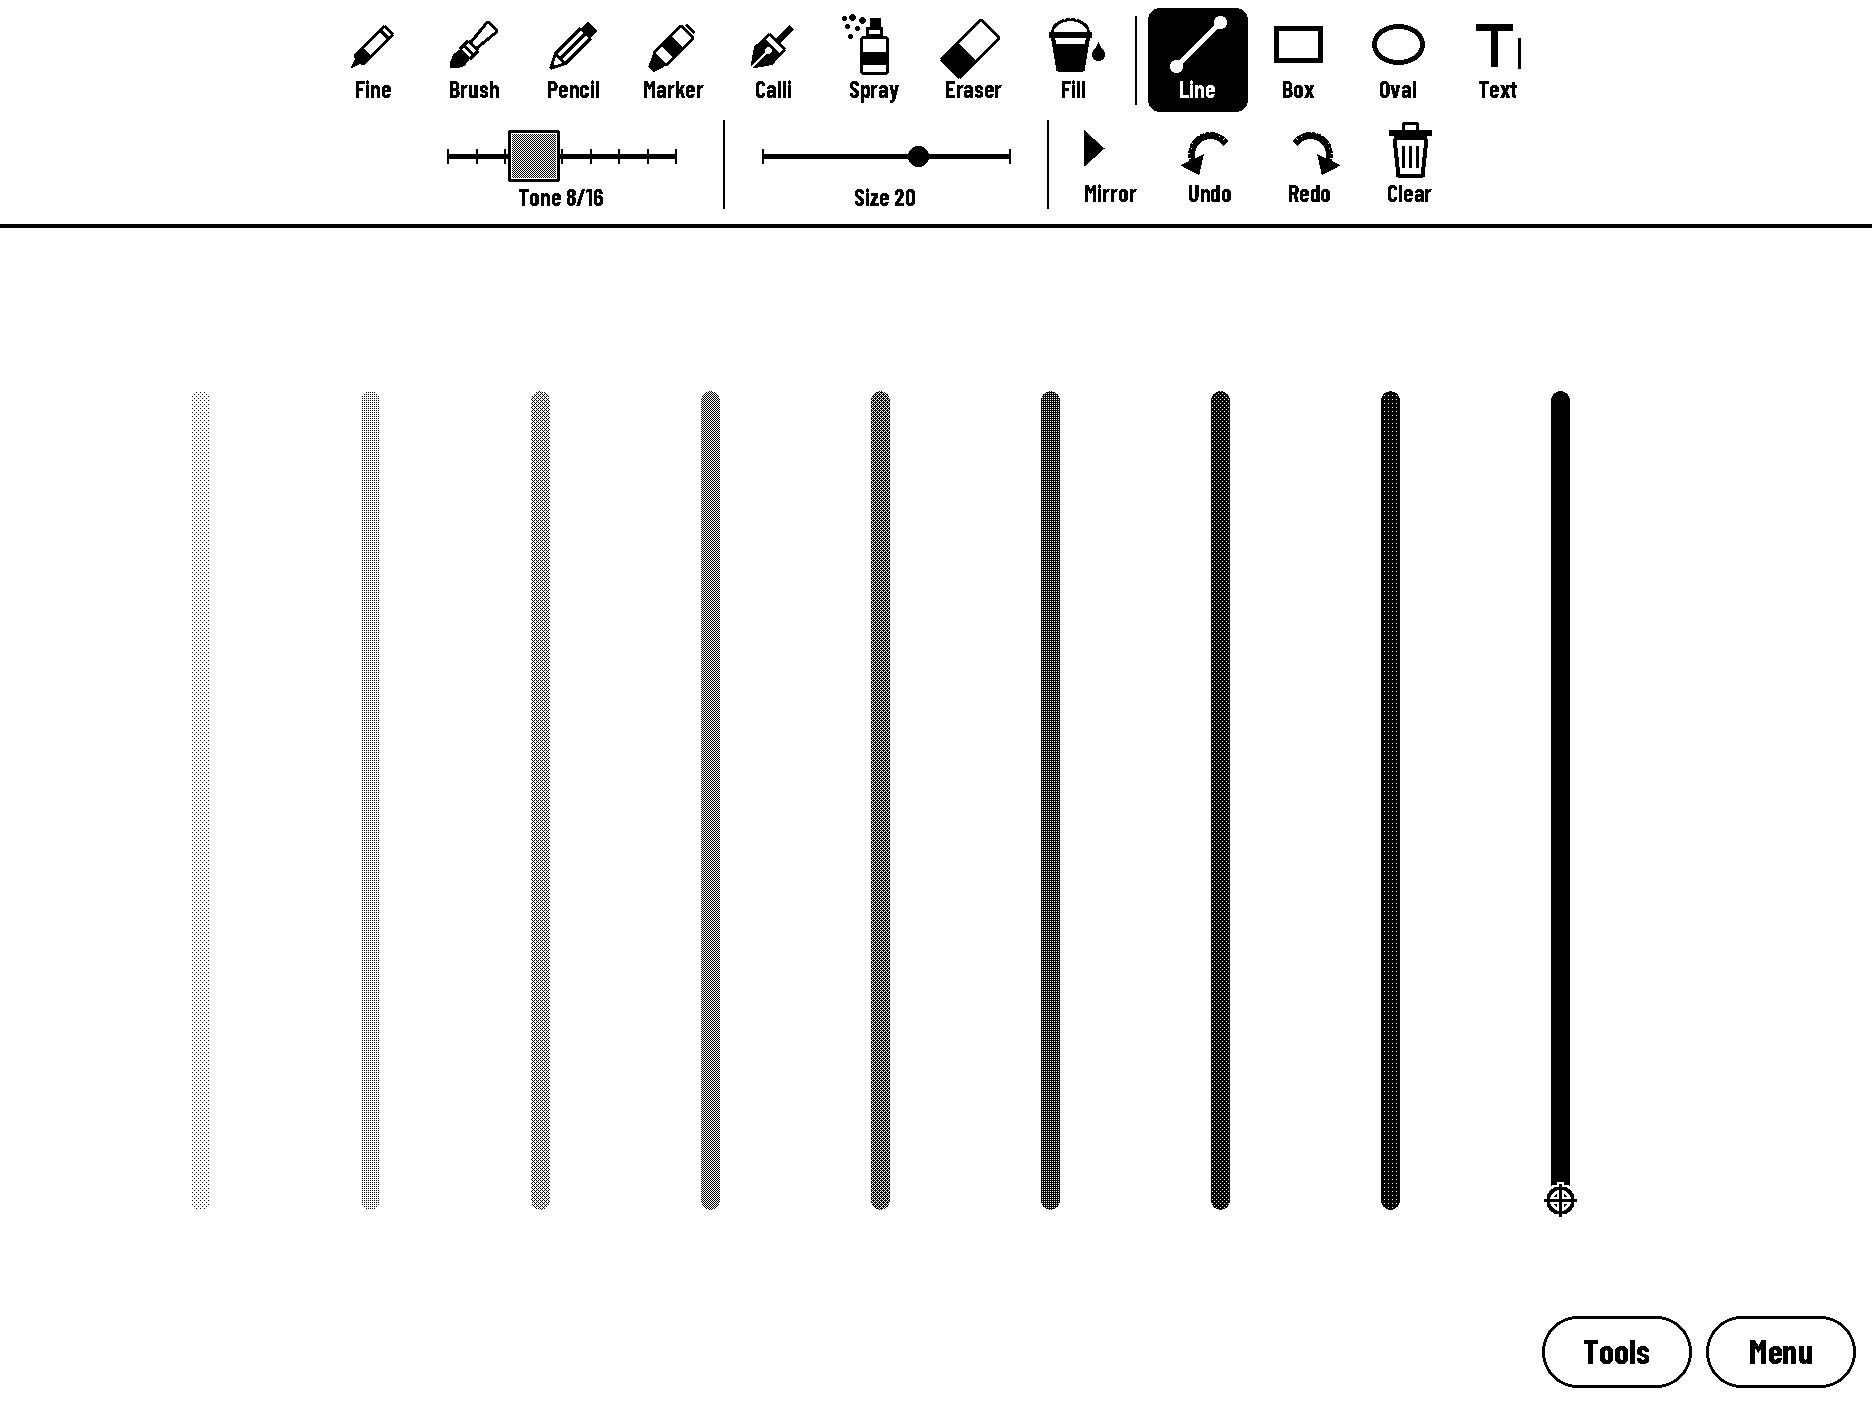
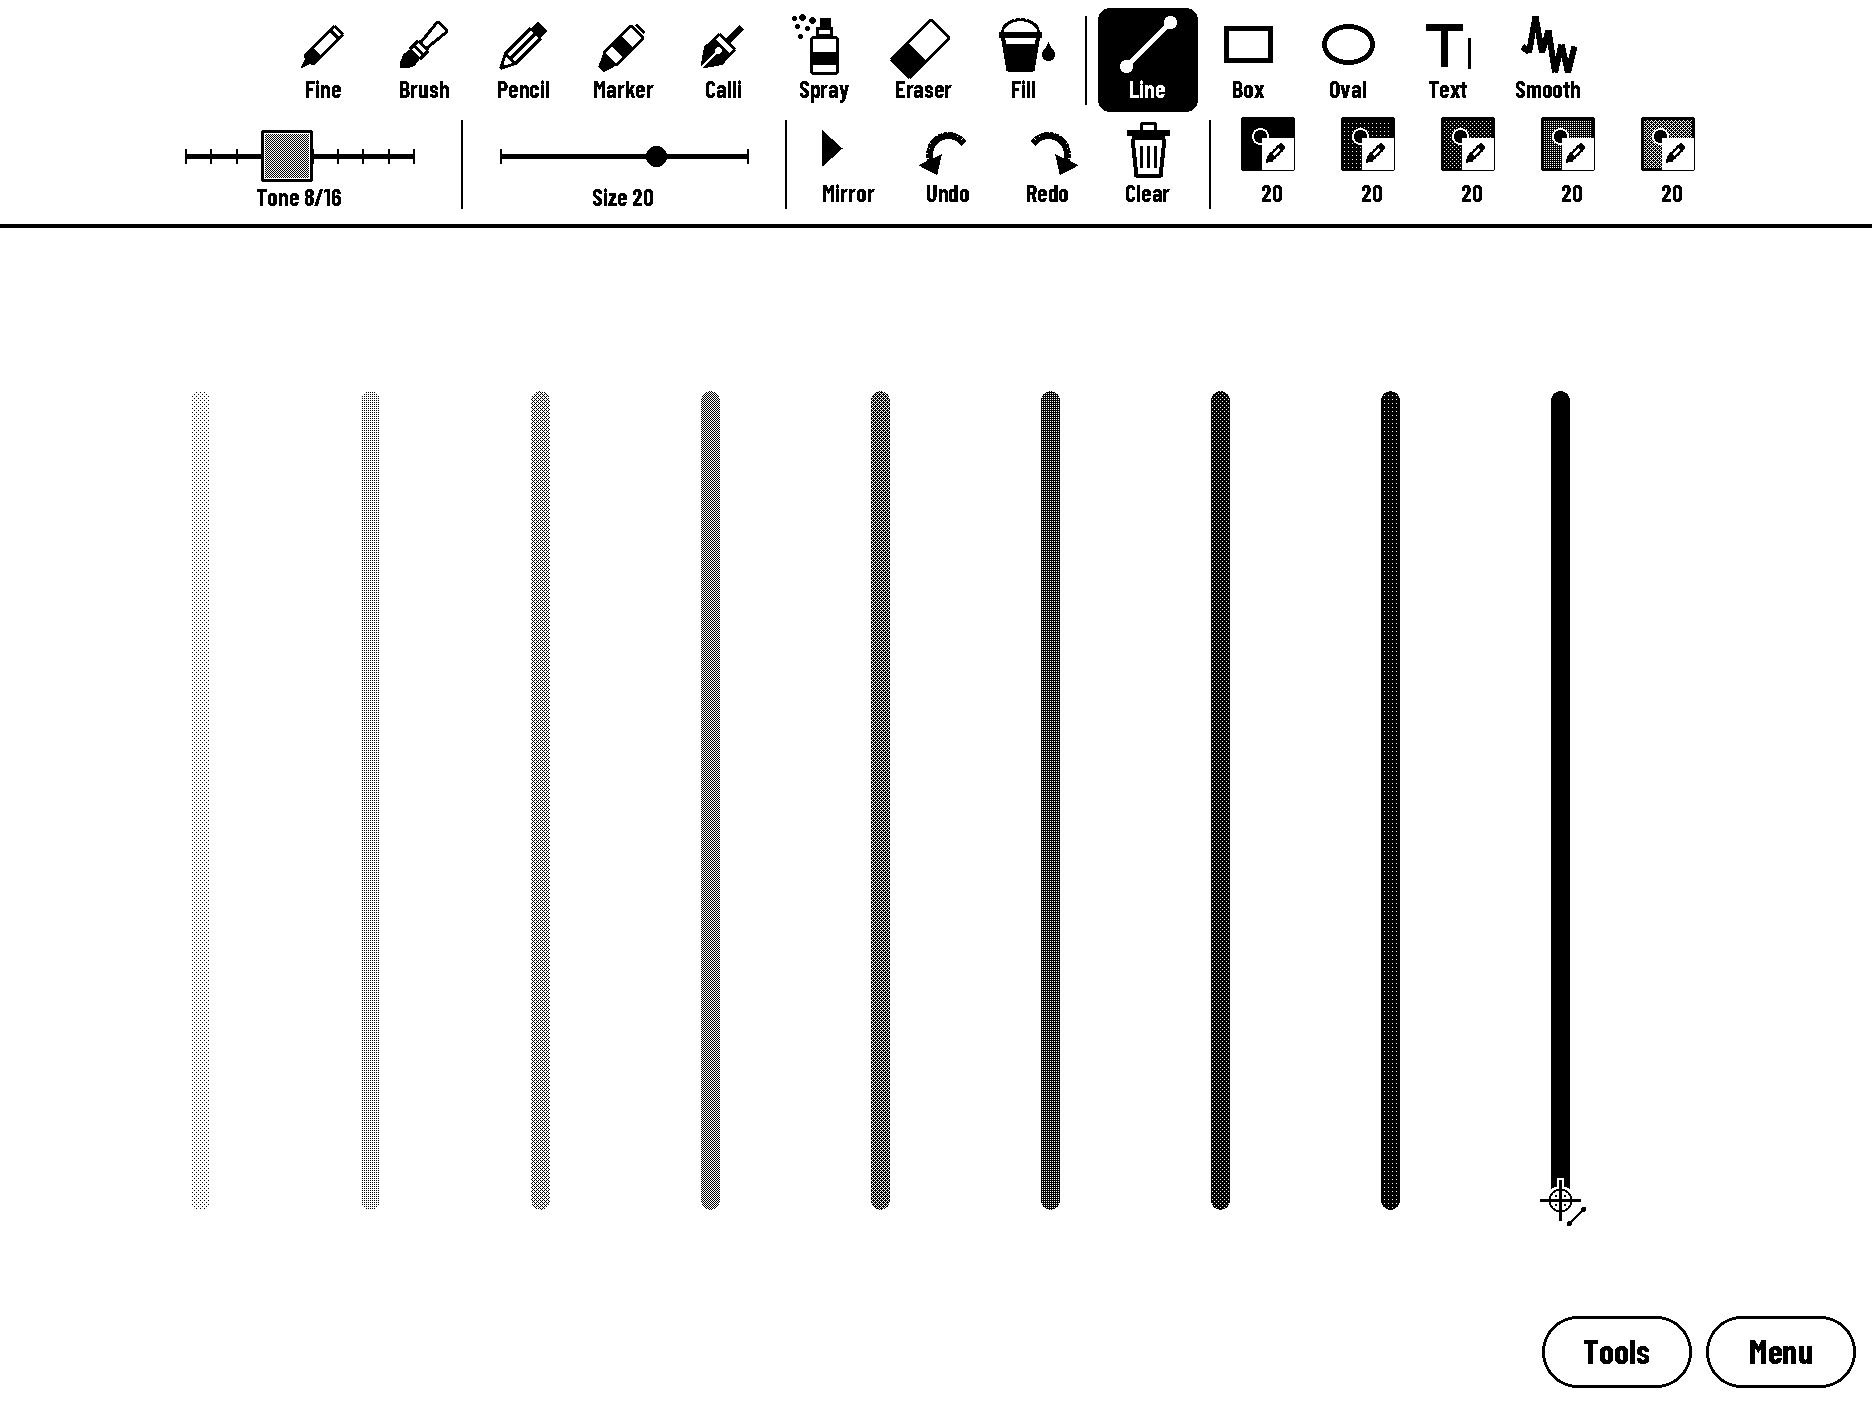
White ink: README row and shots (white over black, slider with White)

Changed region(s): [[0.0929, 0.0, 0.8985, 0.1531]]

diff --git a/README.md b/README.md
@@ -14,7 +14,7 @@ Sketch for the TRMNL X with a USB pen tablet (XP-Pen Deco 01 V2; firmware API 2.
 | Shapes | Line, Box, Oval (toolbar): drag from the start to the end; a thin rubber band shows on the screen only (never saved) and on lift one stroke of the log is drawn with the brush, tone and size picked (mirrored when Mirror is on; one undo step). The pen's barrel button or Shift on a keyboard constrains: lines to 0, 45 and 90 degrees, boxes to squares, ovals to circles. `src/skshape.c` |
 | Paper | page menu "Paper" cycles Blank, Grid, Lines, Dots; the settings `paper` and `paper_sp` (px, default 48) are the default for new pages. A per-page sidecar `skNNNN.pap`; drawn under the ink on the screen, lightly in the thumbnail; never in the page bitmap, so the eraser cannot remove it and the bucket sees white. Print uses `skNNNN-paper.png` (page with its paper, written beside the page), and the phone page lists it next to the plain page. `src/paper.c`, `src/skpaper.c` |
 | Text | tap where the text goes, then type with a USB or Bluetooth keyboard (keys arrive as the X's layout maps them): Backspace, Enter, Escape or a tap elsewhere ends it; it is shown on the screen only until then, then ink in one undo step; 3 sizes from the size slider, in the tone picked. "Connect a keyboard" without one. `src/sktext.c`, `src/textdraw.c` |
-| Tone | the slider next to Size: 9 steps from light to black (2, 4, 6, 8, 10, 12, 14, 15 of 16 dots, then black) on a page-fixed 4 x 4 Bayer pattern; strokes, shapes, text and the bucket use it. The old three shades map to black, 12/16 and 6/16 (key `tone`, old key `shade` read once) |
+| Tone | the slider next to Size: 10 steps, White at the far left, then light to black (2, 4, 6, 8, 10, 12, 14, 15 of 16 dots, then black) on a page-fixed 4 x 4 Bayer pattern; strokes, shapes, text and the bucket use it. White (`SH_WHITE`) is ink: every brush draws it solid in its own shape, pressure and tilt over black or a tone, the bucket fills white, text types white; it is kept by undo, Recent, the settings and the saved page (shot `pro4-white-ink-over-black`) The old three shades map to black, 12/16 and 6/16 (key `tone`, old key `shade` read once) |
 | Recent | the last 5 distinct tone + brush + size combinations a stroke was finished with (never the eraser or the bucket), most recent first, kept in the settings (`rc0`..`rc4`); a tap on a slot restores it (the tool stays). 5 because they fit the strip's second row at portrait width and more swatches are hard to tell apart in 1 bit. `src/skrecent.c` |
 | pills on the page | "Tools" (the toolbar on/off) and "Menu" (the page menu) in the corner away from the toolbar: a pen tap, never ink. Everything is reachable with the pen alone, and with the tablet buttons alone (tests walk both) |
 | touch bar | only the middle tap (the page menu) as an extra way in; the firmware's long press leaves the app |
